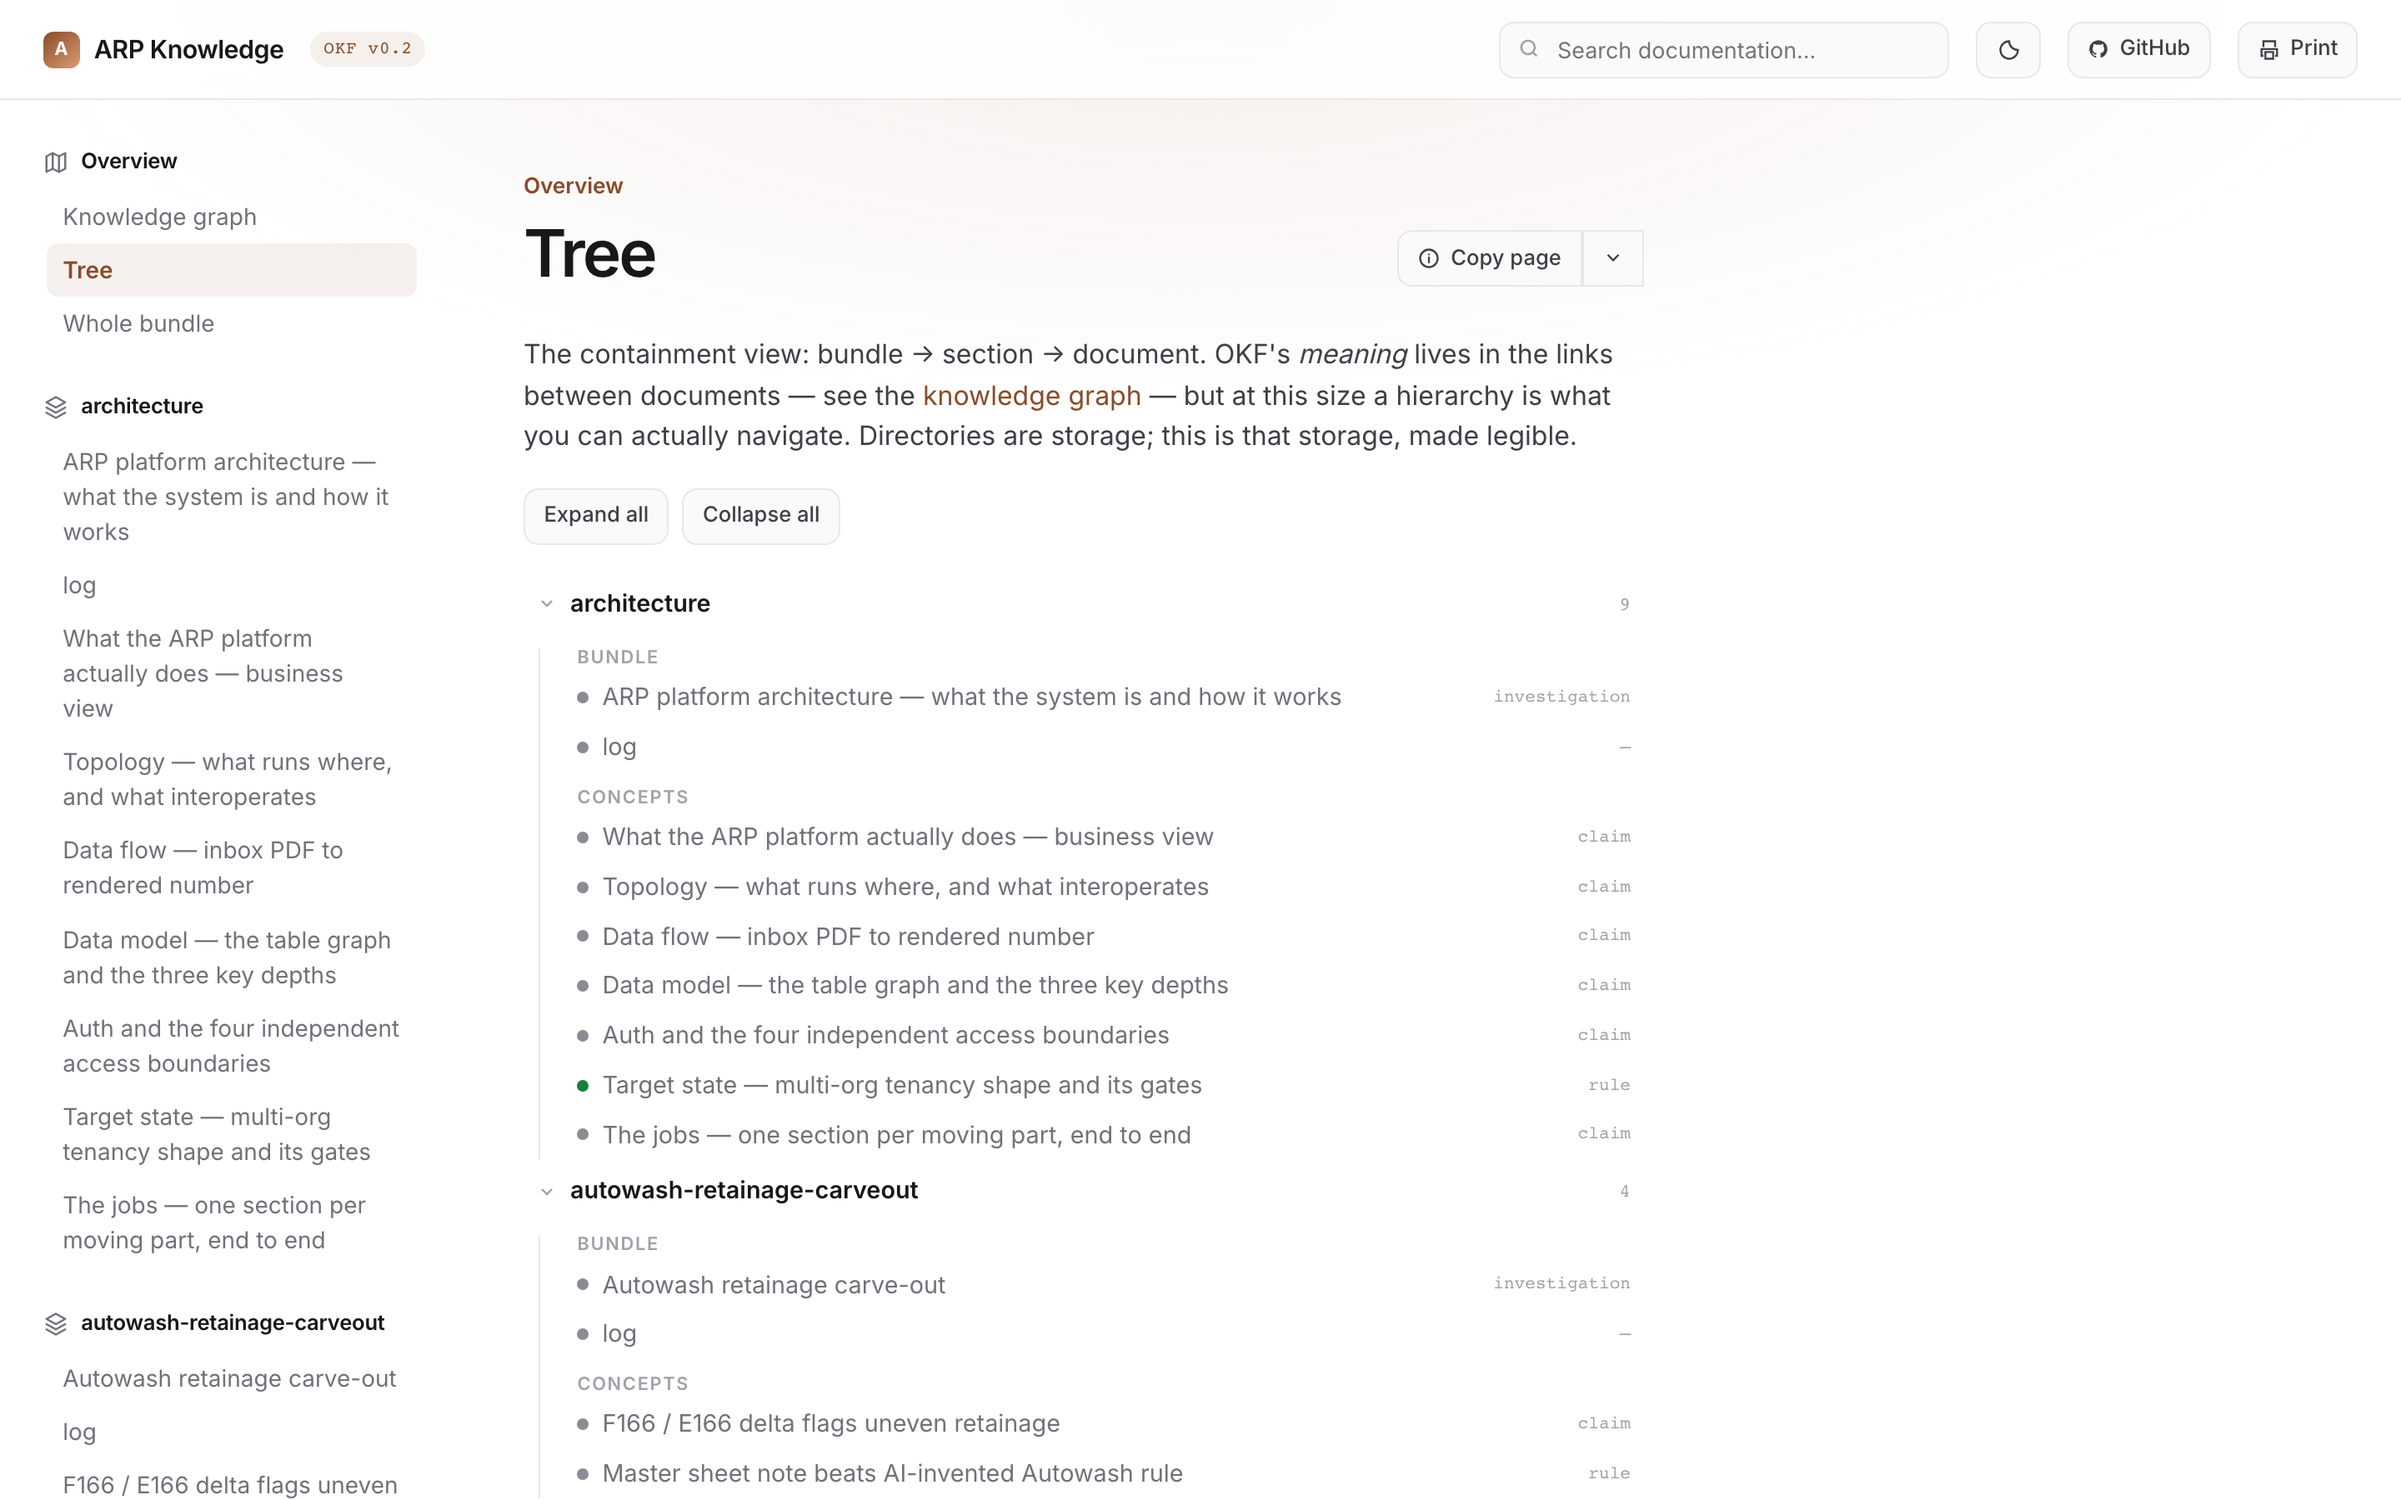
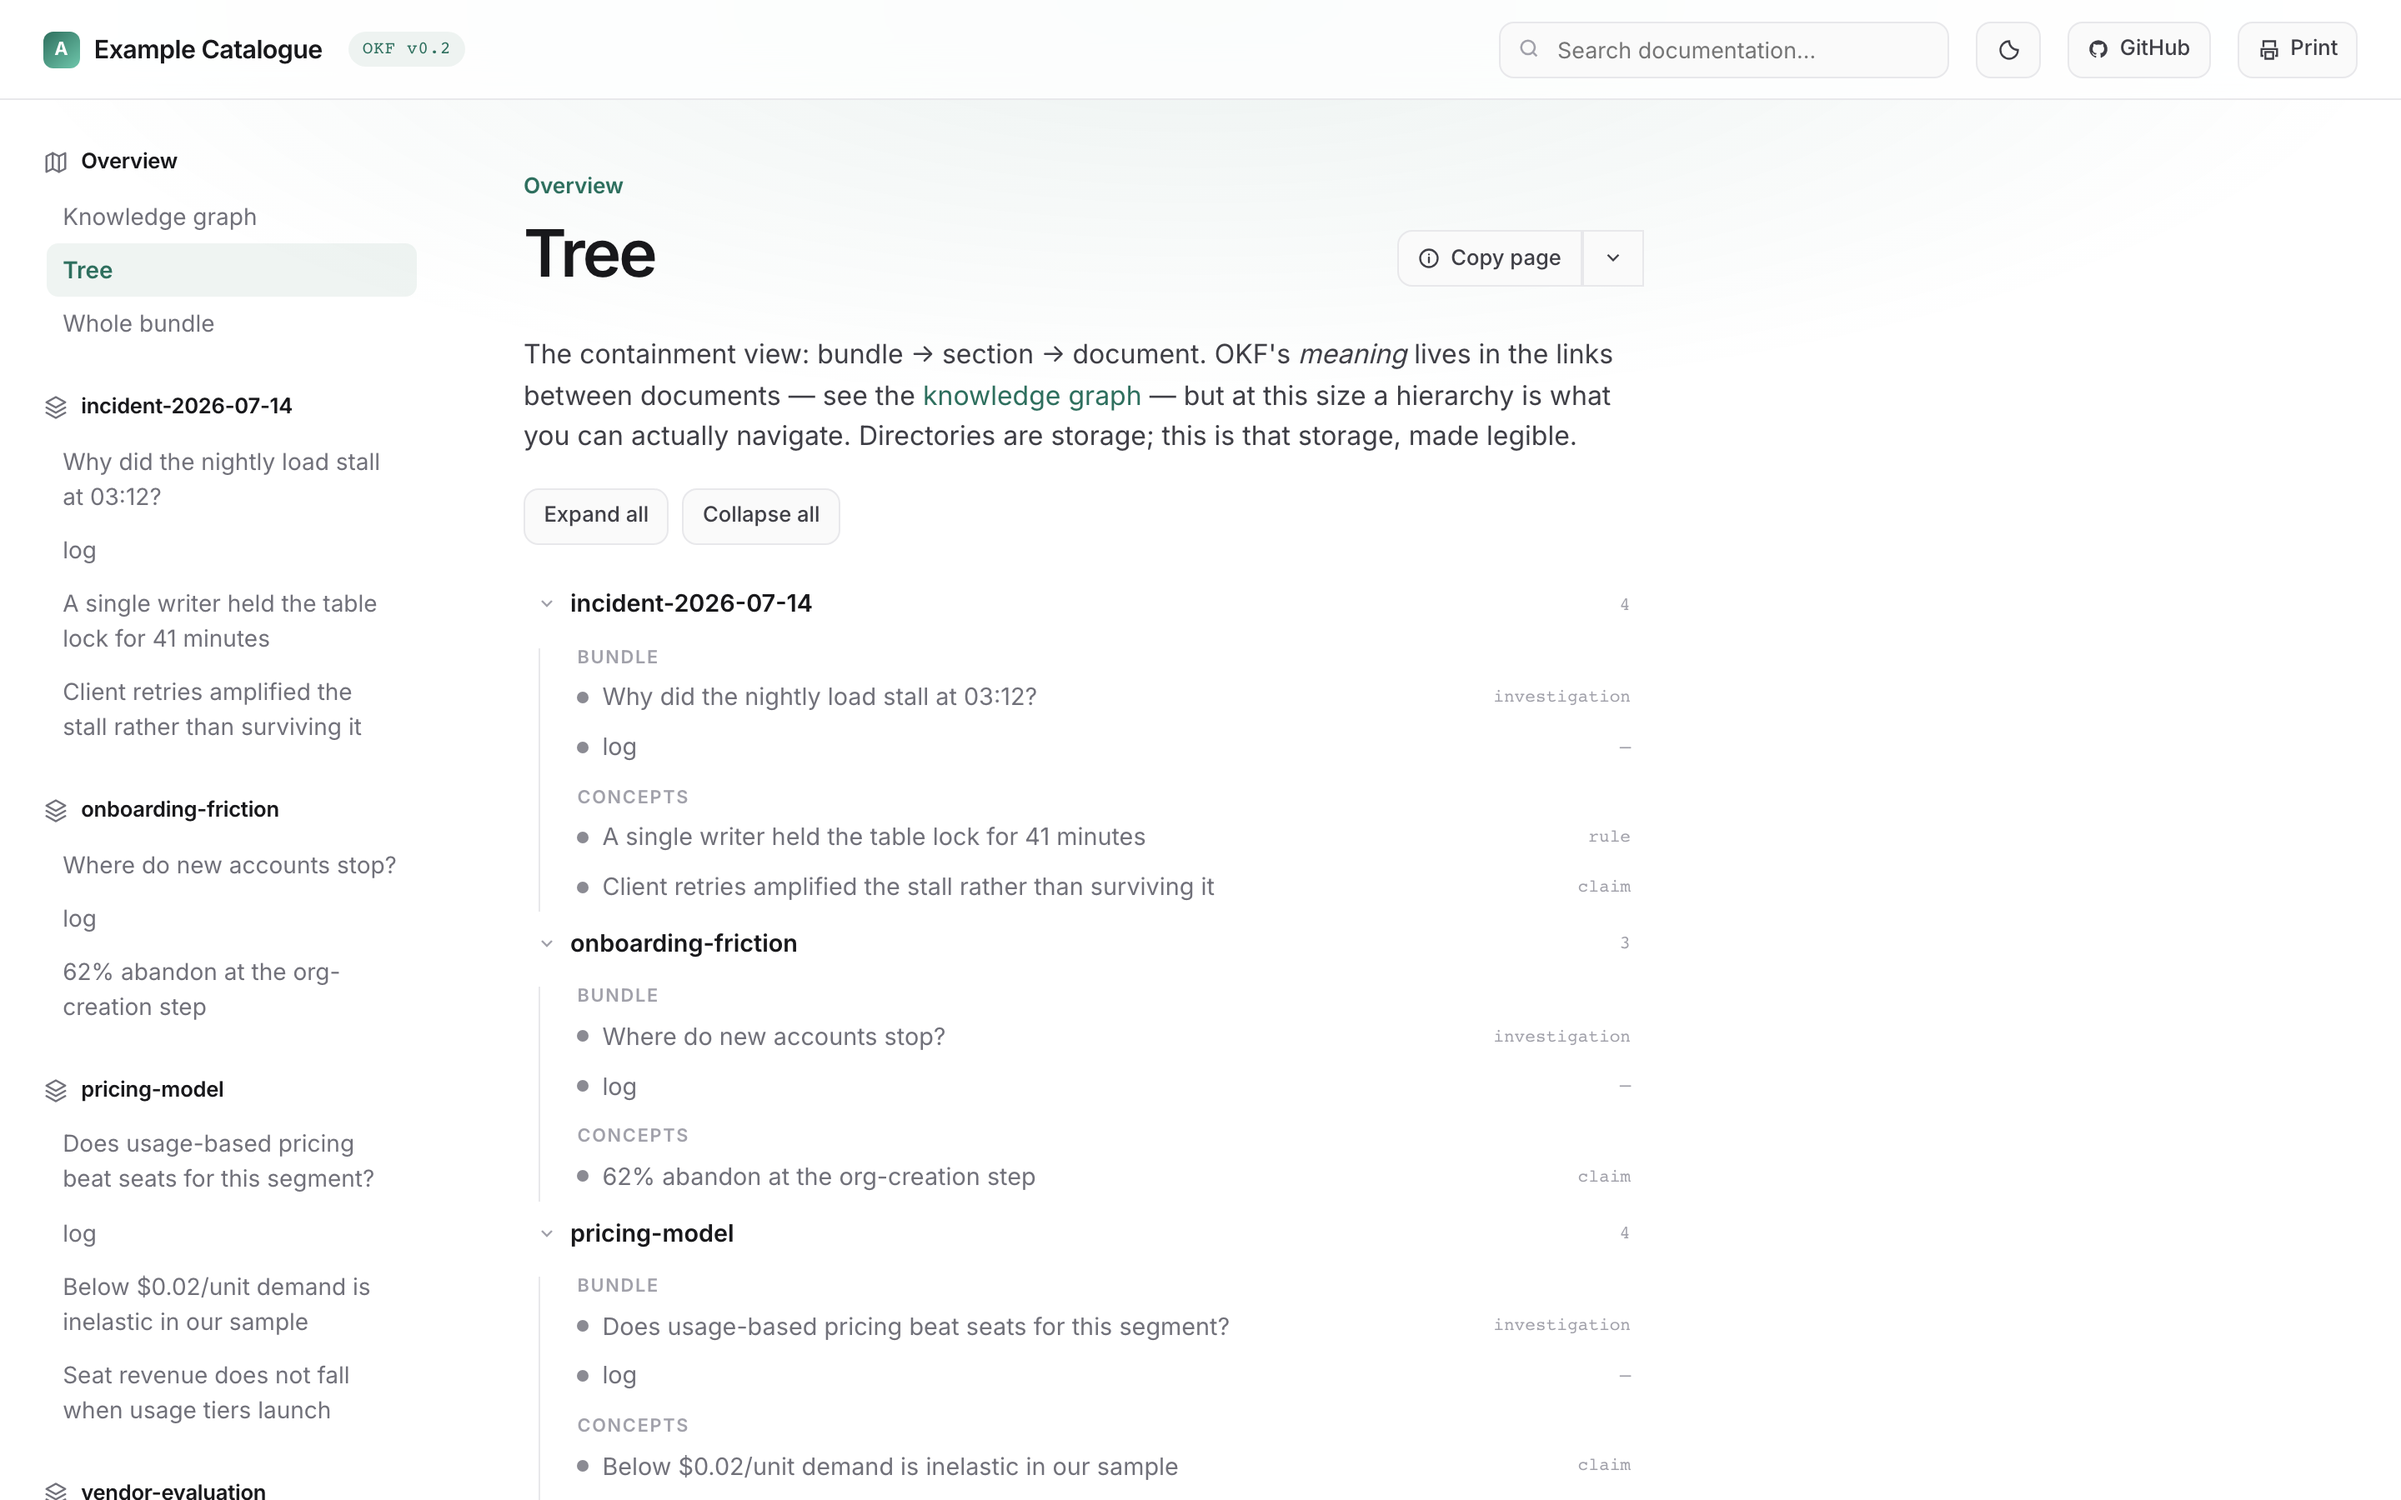
assets: reshoot the tree against a synthetic catalogue
The tree screenshot bound for the public README rendered the ARP catalogue, so
it published internal bundle names — cody-onboarding, redash-security-baseline,
autowash-retainage-carveout. A person's name, an open security investigation and
a vendor, on a public README for an unrelated tool.

That contradicts the disclosure gate written into that catalogue's own README:
do not widen the audience while two bundles describe unclosed exposures. I
flagged the risk and then queued the push anyway; catching it before approval
rather than after is the only reason it did not ship.

Replaced with a synthetic four-bundle catalogue — incident, pricing, vendor
evaluation, onboarding — cross-linked so the graph is a graph rather than a
star. It demonstrates the format better than the real one did: recognisable
knowledge work instead of one company's internal slugs.

README caption corrected to match what the image now shows (four bundles), with
the 18/102/88 figure kept as a stated scale claim rather than an implied one.

Verified: no ARP terms anywhere in README, assets or source.

diff --git a/README.md b/README.md
@@ -46,7 +46,9 @@ Cytoscape + fCoSE: directed edges, overlap-aware layout, hover to light the neig
 
 <img src="https://raw.githubusercontent.com/eidos-agi/okflify/master/assets/tree.png" alt="Tree view grouped by bundle, showing type and trust tier per document" width="100%"/>
 
-Bundle → section → document, collapsible, with the **type and trust tier of every document at a glance** — which the sidebar doesn't carry. Shown above: 18 bundles, 102 documents, 88 edges in one catalogue.
+Bundle → section → document, collapsible, with the **type and trust tier of every document at a glance** — which the sidebar doesn't carry.
+
+Above is a four-bundle catalogue. The largest it has been run against is 18 bundles / 102 documents / 88 edges, rendered into a single file.
 
 ## Diagram surfing
 
